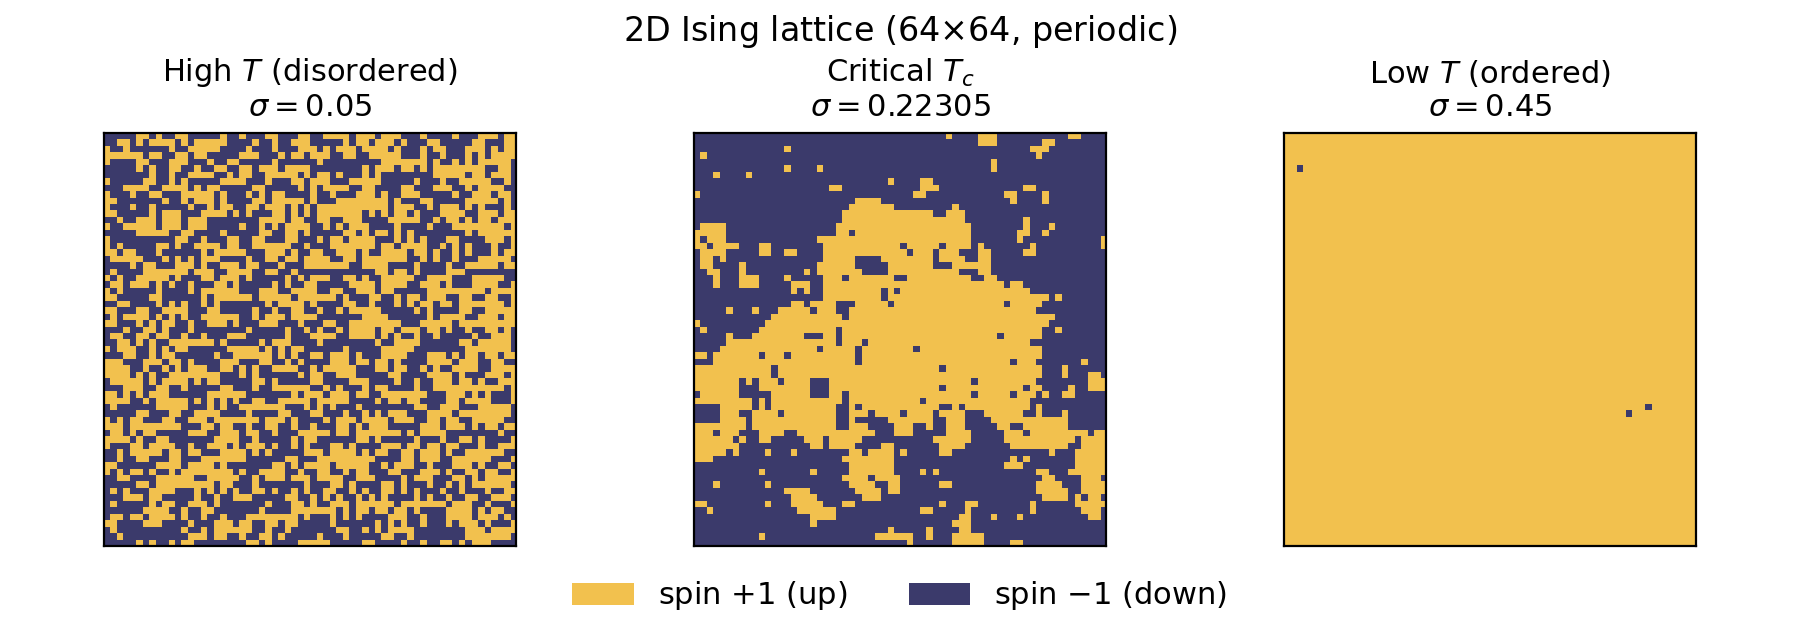
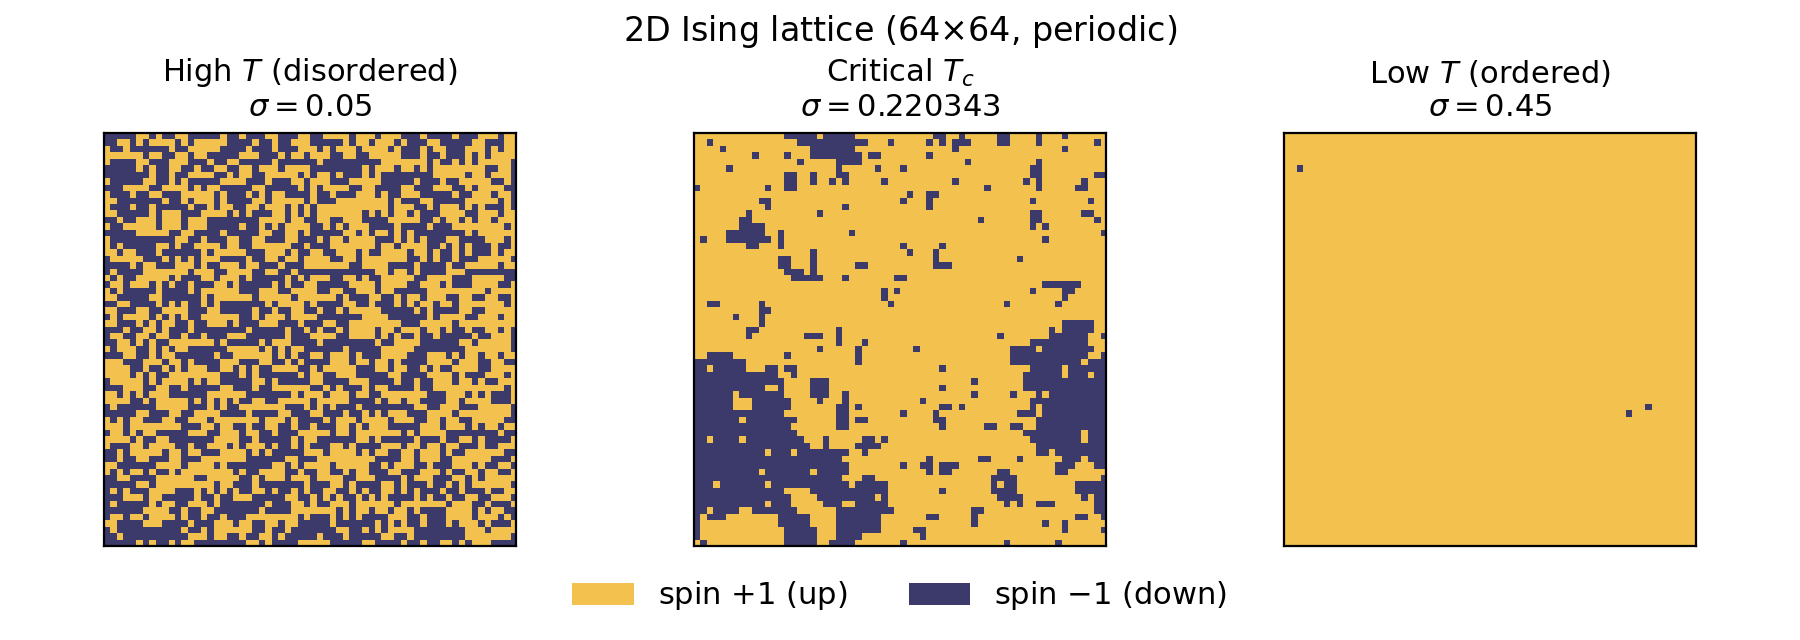
refactor: SIGMA_C = exact criticality canonical; legacy quarantined

Changed region(s): [[0.3733, 0.125, 0.6222, 0.875]]

diff --git a/src/discrete_flow_sampler/targets/ising.py b/src/discrete_flow_sampler/targets/ising.py
@@ -9,20 +9,22 @@ from torch import Tensor
 from discrete_flow_sampler.composition import expand_b_major
 from discrete_flow_sampler.samplers._neighbours import DEFAULT_LOG_RATIO_CLAMP
 
-# Exact 2D Ising criticality under THIS repo's double-counted convention
-# (x^T J x picks up each edge twice, so the per-bond coupling is 2*sigma):
-# beta_c = ln(1+sqrt(2))/2 = 0.44069 gives sigma_c = ln(1+sqrt(2))/4.
-SIGMA_C_EXACT = math.log(1.0 + math.sqrt(2.0)) / 4.0  # = 0.220343...
+# THE project's critical coupling (canonical since the s58 migration,
+# 2026-08-24): exact 2D Ising criticality under THIS repo's double-counted
+# convention (x^T J x picks up each edge twice, so the per-bond coupling is
+# 2*sigma): beta_c = ln(1+sqrt(2))/2 = 0.44069 gives sigma_c = ln(1+sqrt(2))/4.
+# Every NEW cell, reference pool and figure uses this value.
+SIGMA_C = math.log(1.0 + math.sqrt(2.0)) / 4.0  # = 0.220343...
+SIGMA_C_EXACT = SIGMA_C  # alias kept for the s58 finding's test/readers
 
-# The OPERATING critical coupling every "s223"/sigma_c cell in this project
-# runs at, inherited from DNFS Table 2 for replication fidelity. It sits
-# ~1.2% above SIGMA_C_EXACT, i.e. marginally into the ordered (slow-mixing)
-# phase; on the finite lattices used here the transition is rounded into a
-# pseudo-critical window that contains both values. Kept — not "corrected" —
-# because every archived run, config name and one-variable twin relationship
-# is pinned at this value; changing it mid-project would confound any new
-# cell against the whole archive.
-SIGMA_C_OPERATING = 0.22305
+# The LEGACY critical coupling every archived pre-s58 "s223"/sigma_c run was
+# trained and evaluated at, inherited from DNFS Table 2. The s58 finding
+# (test_ising_exact.py): DNFS's own Table 2 "optimal" column at this label is
+# in fact evaluated at SIGMA_C, so 0.22305 was never anyone's exact value.
+# Archived cell definitions keep this literal (their stored configs and the
+# eval config-drift guard are pinned to it, and it is what those models were
+# trained at); scheduled retrain waves replace them with SIGMA_C cells.
+SIGMA_C_LEGACY = 0.22305
 
 
 class IsingTarget:

diff --git a/experiments/dnfs_baseline_01/analysis/08_wolff_reference_pool.py b/experiments/dnfs_baseline_01/analysis/08_wolff_reference_pool.py
@@ -16,7 +16,8 @@ chain-block bootstrap works unchanged; burn_in / thin are measured in Wolff
 CLUSTERS, not sweeps, and the chains are genuinely independent (fresh seed
 each), which makes the Gelman--Rubin diagnostic a real multi-start check.
 
-Writes: results/01_baseline/wolff_ref_d10_sigma{0.1,0.22305}.pt (~a minute).
+Writes: results/01_baseline/wolff_ref_d10_sigma{0.1,0.220343,0.22305}.pt
+(~a minute each; 0.220343 = SIGMA_C to :g precision).
 """
 from pathlib import Path
 
@@ -24,7 +25,7 @@ import torch
 
 from discrete_flow_sampler.diagnostics.metrics import gelman_rubin
 from discrete_flow_sampler.mcmc.wolff import wolff_sample
-from discrete_flow_sampler.targets.ising import IsingTarget
+from discrete_flow_sampler.targets.ising import SIGMA_C, IsingTarget
 
 REPO_ROOT = Path(__file__).resolve().parents[3]
 RESULTS = REPO_ROOT / "results" / "01_baseline"
@@ -52,7 +53,7 @@ def build_pool(sigma: float) -> None:
     pooled = stacked.reshape(N_RECORDS * N_CHAINS, target.d)  # record-major
     m_per_chain = stacked.mean(dim=2).T  # (chains, records)
     rhat_m = gelman_rubin(m_per_chain.numpy())
-    out = RESULTS / f"wolff_ref_d10_sigma{sigma}.pt"
+    out = RESULTS / f"wolff_ref_d10_sigma{sigma:g}.pt"
     torch.save(
         {
             "samples": pooled.to(torch.int8),
@@ -69,5 +70,12 @@ def build_pool(sigma: float) -> None:
 
 
 if __name__ == "__main__":
-    for sigma in (0.1, 0.22305):
+    # 0.22305 is the LEGACY pool (pairs with the archived pre-migration runs,
+    # kept on disk); SIGMA_C is the pool every post-migration run evaluates
+    # against. Existing pool files are not rebuilt.
+    for sigma in (0.1, SIGMA_C, 0.22305):
+        out = RESULTS / f"wolff_ref_d10_sigma{sigma:g}.pt"
+        if out.exists():
+            print(f"[wolff ref sigma={sigma:g}] exists, skipping {out.name}")
+            continue
         build_pool(sigma)

diff --git a/scripts/plot_ising_phases.py b/scripts/plot_ising_phases.py
@@ -4,10 +4,11 @@ running-example section.
 Temperature is implicit in this codebase: sigma is the coupling in J = sigma*A,
 so it plays the role of inverse temperature beta. Large sigma -> strong
 coupling -> low temperature -> ordered; small sigma -> high temperature ->
-disordered. The repo pins the 2D-Ising critical point at sigma = 0.22305
-(experiments/dnfs_baseline_01/configs.py), consistent with the exact
-K_c = 0.5*ln(1+sqrt(2)) once the symmetrised-adjacency double-counting (K = 2*sigma)
-is accounted for.
+disordered. The critical panel sits at the exact 2D-Ising critical point
+sigma_c = ln(1+sqrt(2))/4 = 0.220343 (targets/ising.py SIGMA_C; K_c =
+0.5*ln(1+sqrt(2)) with the symmetrised-adjacency double-counting K = 2*sigma).
+Regenerated at the exact value in the s58 sigma_c migration (2026-08-24);
+the pre-migration panel used the legacy 0.22305.
 
 Each snapshot is a single equilibrated Gibbs state reshaped from length d = D*D
 to a D*D grid. The ordered panel is initialised from a fully aligned lattice:
@@ -30,7 +31,7 @@ from discrete_flow_sampler.diagnostics.figure_style import (
     SPIN_UP_COLOUR,
 )
 from discrete_flow_sampler.mcmc.gibbs import gibbs_sample
-from discrete_flow_sampler.targets.ising import IsingTarget
+from discrete_flow_sampler.targets.ising import SIGMA_C, IsingTarget
 
 D = 64
 SEED = 0
@@ -48,7 +49,7 @@ CMAP = SPIN_CMAP
 # (label, sigma, n_sweeps, aligned_init)
 PANELS = [
     ("High $T$ (disordered)", 0.05, 200, False),
-    ("Critical $T_c$", 0.22305, 1500, False),
+    ("Critical $T_c$", SIGMA_C, 1500, False),
     ("Low $T$ (ordered)", 0.45, 300, True),
 ]
 

diff --git a/experiments/constrained_hard_03/generate_kawasaki_reference_d256.py b/experiments/constrained_hard_03/generate_kawasaki_reference_d256.py
@@ -71,11 +71,14 @@ from discrete_flow_sampler.mcmc.kawasaki import (
     init_random_at_composition,
     run_nonlocal_swap_chain_snapshots,
 )
-from discrete_flow_sampler.targets.ising import FixedCompositionIsingTarget
+from discrete_flow_sampler.targets.ising import (
+    SIGMA_C, FixedCompositionIsingTarget)
 
 LATTICE_SIDE = 16
 N_SITES = LATTICE_SIDE * LATTICE_SIDE          # 256
-DEFAULT_SIGMA = 0.22305    # operating sigma_c (exact 0.22034; ising.SIGMA_C_EXACT)
+DEFAULT_SIGMA = SIGMA_C    # exact sigma_c since the s58 migration; the archived
+                           # d256 reference dumps were generated at legacy 0.22305
+                           # and pair ONLY with the pre-migration hard runs
 TARGET_COMPOSITION = 0.5                       # 128 up / 128 down, exact
 N_CHAINS = 8                                   # 2 ordered-left, 2 ordered-right, 4 random
 BURN_IN_SWEEPS = 100_000                       # ~6000x the measured tau — cheap at numba speed

diff --git a/experiments/dnfs_baseline_01/configs.py b/experiments/dnfs_baseline_01/configs.py
@@ -1,5 +1,14 @@
 """Frozen, named configurations for DNFS Ising baseline runs.
 
+SIGMA_C MIGRATION (s58, 2026-08-24): the project's critical coupling is
+targets/ising.py SIGMA_C = ln(1+sqrt(2))/4 = 0.220343 (exact). Every cell
+below that carries sigma=0.22305 (or a 0.223 curriculum stage) describes an
+ARCHIVED run trained at the legacy value; those literals are records and must
+not be edited (stored run configs and the eval config-drift guard are pinned
+to them). Any NEW sigma_c cell imports SIGMA_C; the archived sigma_c cells
+are replaced by retrain waves, unconstrained chapter first, hard chapter
+once the head family is finalised.
+
 Configs are dataclasses keyed by name in `CONFIGS`; new entries show up
 automatically in `run.py` via `--cfg <name>`. The dataclasses are frozen
 so a single config object cannot be mutated mid-run (any per-seed override

diff --git a/experiments/constrained_hard_03/configs.py b/experiments/constrained_hard_03/configs.py
@@ -1,5 +1,13 @@
 """Hard-constraint configs: swap-move CTMC on the fixed-composition manifold.
 
+SIGMA_C MIGRATION (s58, 2026-08-24): the project's critical coupling is
+targets/ising.py SIGMA_C = ln(1+sqrt(2))/4 = 0.220343 (exact). Every cell
+below with sigma=0.223/0.22305 (the "s223" label, and the 0.223 curriculum
+ladder endpoint) describes an ARCHIVED run trained at the legacy value; those
+literals are records and must not be edited (stored run configs and the eval
+config-drift guard are pinned to them). Any NEW sigma_c cell imports SIGMA_C;
+the hard-chapter retrain wave runs once the head family is finalised.
+
 Imports the shared schema dataclasses from the baseline experiment (same
 pattern as `constrained_soft_02/configs.py`) and adds `HardStageCfg`, which
 carries a `head_kind` selecting the swap-readout head. Unlike the soft-02

diff --git a/experiments/constrained_hard_03/scout_euler_budget.py b/experiments/constrained_hard_03/scout_euler_budget.py
@@ -50,7 +50,7 @@ from discrete_flow_sampler.samplers.swap_training import train_swap
 from discrete_flow_sampler.seeding import seed_everything
 from discrete_flow_sampler.targets.ising import FixedCompositionIsingTarget
 
-SIGMA_C = 0.22305  # operating value (exact 0.22034; ising.SIGMA_C_EXACT)
+SIGMA_C = 0.22305  # LEGACY value: this scout profiled the archived (pre-s58-migration) cells
 CANDIDATE_STEPS = (16, 32, 64, 128, 256, 512)
 EXTRAPOLATE_TO = (4, 8, 12, 16)
 
